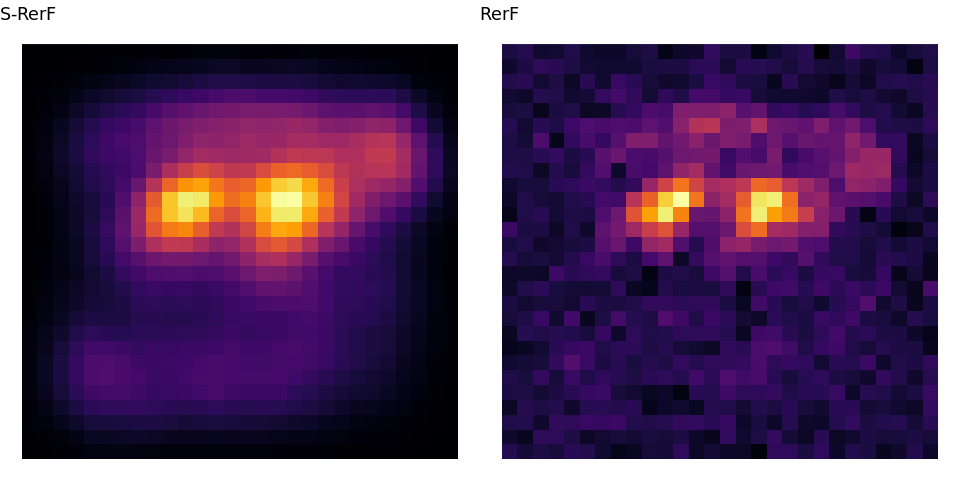
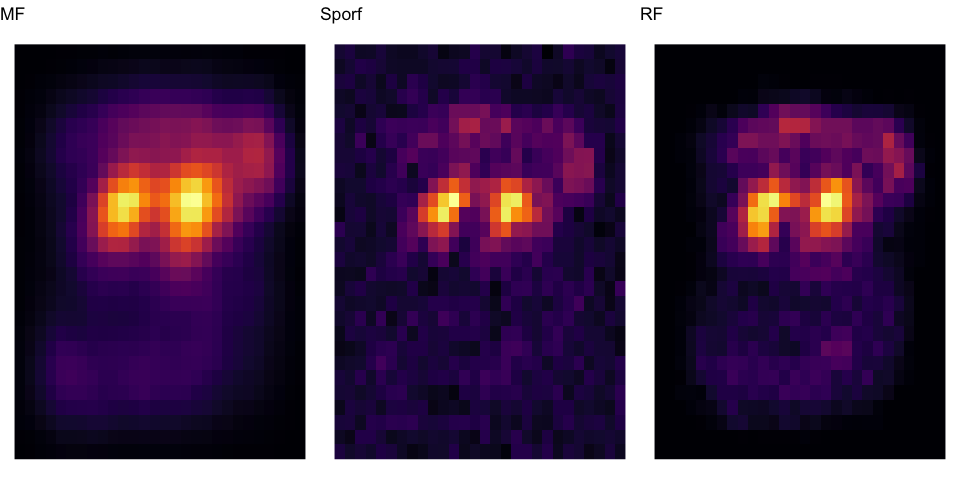
Add RF

diff --git a/docs/demos/S-RerF/ImportanceMap.rst b/docs/demos/S-RerF/ImportanceMap.rst
@@ -21,7 +21,7 @@
 Feature Importance on MNIST with feature counts
 ===============================================
 
-Select a subset of 3's and 5's from MNIST
+Select a subset of 3’s and 5’s from MNIST
 -----------------------------------------
 
 Here we train a forest using ``RerF`` with the ``RandMatImagePatch``
@@ -29,116 +29,163 @@ option with ``patch.min = 1`` and ``patch.max = 5``.
 
 .. code:: r
 
-    ## Get a random subsample, 100 each of 3's and 5's
-    threes <- which(mnist$Ytrain %in% 3)
-    fives  <- which(mnist$Ytrain %in% 5)
-    numsub <- c(threes, fives)
+   ## Get a random subsample, 100 each of 3's and 5's
+   threes <- which(mnist$Ytrain %in% 3)
+   fives  <- which(mnist$Ytrain %in% 5)
+   numsub <- c(threes, fives)
 
-    Ytrain <- mnist$Ytrain[numsub]
-    Xtrain <- mnist$Xtrain[numsub,]
-    Ytest <- mnist$Ytest[mnist$Ytest %in% c(3,5)]
-    Xtest <- mnist$Xtest[mnist$Ytest %in% c(3,5),]
+   Ytrain <- mnist$Ytrain[numsub]
+   Xtrain <- mnist$Xtrain[numsub,]
+   Ytest <- mnist$Ytest[mnist$Ytest %in% c(3,5)]
+   Xtest <- mnist$Xtest[mnist$Ytest %in% c(3,5),]
 
 .. code:: r
 
-    # p is number of dimensions, d is the number of random features to evaluate, iw is image width, ih is image height, patch.min is min width of square patch to sample pixels from, and patch.max is the max width of square patch
-    p <- ncol(Xtrain)
-    d <- ceiling(sqrt(p))
-    iw <- sqrt(p)
-    ih <- iw
-    patch.min <- 1L
-    patch.max <- 5L
+   # p is number of dimensions, d is the number of random features to evaluate, iw is image width, ih is image height, patch.min is min width of square patch to sample pixels from, and patch.max is the max width of square patch
+   p <- ncol(Xtrain)
+   d <- ceiling(sqrt(p))
+   iw <- sqrt(p)
+   ih <- iw
+   patch.min <- 1L
+   patch.max <- 5L
 
-    forestS <- RerF(Xtrain, Ytrain, num.cores = numCores, FUN = RandMatImagePatch,
-                   paramList = list(p = p, d = d, iw = iw, ih = ih,
-                                    pwMin = patch.min, pwMax = patch.max), max.depth = 8)
+   forestS <- RerF(Xtrain, Ytrain, num.cores = numCores, FUN = RandMatImagePatch,
+                  paramList = list(p = p, d = d, iw = iw, ih = ih,
+                                   pwMin = patch.min, pwMax = patch.max), max.depth = 8)
 
-    predS <- Predict(Xtest, forestS, num.cores = numCores)
-    (mnist.error.rate <- mean(predS != Ytest))
+   predS <- Predict(Xtest, forestS, num.cores = numCores)
+   (mnist.error.rate <- mean(predS != Ytest))
 
 ::
 
-    ## [1] 0.01892744
+   ## [1] 0.01892744
 
 .. code:: r
 
-    forestRerF <- RerF(Xtrain, Ytrain, num.cores = numCores, FUN = RandMatBinary,
-                   paramList = list(p = p, d = d), max.depth = 8)
+   forestRerF <- RerF(Xtrain, Ytrain, num.cores = numCores, FUN = RandMatBinary,
+                  paramList = list(p = p, d = d), max.depth = 8)
 
 
-    predRerF <- Predict(Xtest, forestRerF, num.cores = numCores)
-    (mnist.error.rate <- mean(predRerF != Ytest))
+   predRerF <- Predict(Xtest, forestRerF, num.cores = numCores)
+   (mnist.error.rate <- mean(predRerF != Ytest))
 
 ::
 
-    ## [1] 0.02208202
+   ## [1] 0.02208202
 
 .. code:: r
 
-    system.time({
-    FeatImpS <- FeatureImportance(forestS, num.cores = numCores, type = "C")
-    })
+   forestRF <- RerF(Xtrain, Ytrain, num.cores = numCores, FUN = RandMatRF,
+                  paramList = list(p = p, d = d), max.depth = 8)
+
+
+   predRF <- Predict(Xtest, forestRF, num.cores = numCores)
+   (mnist.error.rate <- mean(predRF != Ytest))
 
 ::
 
-    ## Message: Computing feature importance as counts of unique feature combinations.
-
-    ##    user  system elapsed 
-    ## 888.566   4.288 132.800
+   ## [1] 0.02050473
 
 .. code:: r
 
-    ni <- matrix(0, length(FeatImpS$features), ncol(Xtrain))
-
-    for(i in 1:length(FeatImpS$features)){
-      ni[i, FeatImpS$features[[i]]] <- FeatImpS$imp[i]
-    }
-
-    NN <- matrix(apply(ni, 2, sum) / nrow(ni), 28, 28, byrow = FALSE)
-    saveRDS(NN, file = "NNsrerf.rds")
-
-    system.time({
-    FeatImpRerF <- FeatureImportance(forestRerF, num.cores = numCores, type = "C")
-    })
+   system.time({
+   FeatImpS <- FeatureImportance(forestS, num.cores = numCores, type = "C")
+   })
 
 ::
 
-    ## Message: Computing feature importance as counts of unique feature combinations.
+   ## Message: Computing feature importance as counts of unique feature combinations.
 
-    ##    user  system elapsed 
-    ## 1287.25    4.28  166.17
+   ##     user   system  elapsed 
+   ## 1229.062    6.560  314.241
 
 .. code:: r
 
-    nir <- matrix(0, length(FeatImpRerF$features), ncol(Xtrain))
+   ni <- matrix(0, length(FeatImpS$features), ncol(Xtrain))
 
-    for(i in 1:length(FeatImpRerF$features)){
-      nir[i, FeatImpRerF$features[[i]]] <- FeatImpRerF$imp[i]
-    }
+   for(i in 1:length(FeatImpS$features)){
+     ni[i, FeatImpS$features[[i]]] <- FeatImpS$imp[i]
+   }
 
-    NNr <- matrix(apply(nir, 2, sum) / nrow(nir), 28, 28, byrow = FALSE)
-    saveRDS(NNr, file = "NNrerf.rds")
+   NN <- matrix(apply(ni, 2, sum) / nrow(ni), 28, 28, byrow = FALSE)
+   saveRDS(NN, file = "NNsrerf.rds")
+
+   system.time({
+   FeatImpRerF <- FeatureImportance(forestRerF, num.cores = numCores, type = "C")
+   })
+
+::
+
+   ## Message: Computing feature importance as counts of unique feature combinations.
+
+   ##     user   system  elapsed 
+   ## 1750.585   11.082  444.860
+
+.. code:: r
+
+   nir <- matrix(0, length(FeatImpRerF$features), ncol(Xtrain))
+
+   for(i in 1:length(FeatImpRerF$features)){
+     nir[i, FeatImpRerF$features[[i]]] <- FeatImpRerF$imp[i]
+   }
+
+   NNr <- matrix(apply(nir, 2, sum) / nrow(nir), 28, 28, byrow = FALSE)
+   saveRDS(NNr, file = "NNrerf.rds")
+
+   system.time({
+   FeatImpRF <- FeatureImportance(forestRF, num.cores = numCores, type = "C")
+   })
+
+::
+
+   ## Message: Computing feature importance as counts of unique feature combinations.
+
+   ##    user  system elapsed 
+   ##  14.579   0.323   5.549
+
+.. code:: r
+
+   nirf <- matrix(0, length(FeatImpRF$features), ncol(Xtrain))
+
+   for(i in 1:length(FeatImpRF$features)){
+     nirf[i, FeatImpRF$features[[i]]] <- FeatImpRF$imp[i]
+   }
+
+   NNrf <- matrix(apply(nirf, 2, sum) / nrow(nirf), 28, 28, byrow = FALSE)
+   saveRDS(NNrf, file = "NNrf.rds")
 
 plot the average 3 and 5 from the training set
 ----------------------------------------------
 
 .. code:: r
 
-    the3s <- Xtrain[Ytrain == 3, ]
-    the5s <- Xtrain[Ytrain == 5, ]
+   the3s <- Xtrain[Ytrain == 3, ]
+   the5s <- Xtrain[Ytrain == 5, ]
 
-    sum3 <- matrix(apply(the3s, 2, sum) / sum(Ytrain == 3), 28, 28, byrow = FALSE)
-    sum5 <- matrix(apply(the5s, 2, sum) / sum(Ytrain == 5), 28, 28, byrow = FALSE)
+   sum3 <- matrix(apply(the3s, 2, sum) / sum(Ytrain == 3), 28, 28, byrow = FALSE)
+   sum5 <- matrix(apply(the5s, 2, sum) / sum(Ytrain == 5), 28, 28, byrow = FALSE)
 
-    par(mfrow = c(1, 2))
-    plot(raster(sum3), col = viridis(255), main = "avg 3", axes = FALSE, legend = FALSE)
-    plot(raster(sum5), col = viridis(255), main = "avg 5", axes = FALSE, legend = FALSE)
+   g <- expand.grid(x = 1:28, y = 1:28)
+   gg <- rbind(g, g)
+
+   nn <- as.vector(t(NN[28:1, ]))
+   nnrerf <- as.vector(t(NNr[28:1, ]))
+   nnrf <- as.vector(t(NNrf[28:1, ]))
+
+   s3 <- as.vector(t(sum3[28:1,]))
+   s5 <- as.vector(t(sum5[28:1,]))
+
+   Z <- data.frame(g, z = c(nn, nnrerf, nnrf, s3, s5), Alg =  rep(c("MF", "Sporf", "RF", "Average 3", "Average 5"), each = length(nn)))
+
+   sc0 <- scale_fill_gradientn(colours = viridis(255))
+   sc1 <- scale_fill_gradientn(colours = inferno(255))
+
+   a1 <- ggplot(data = Z[ Z$Alg == "Average 3",    ], aes(x = x, y = y, fill = z)) + geom_raster() + theme_void() + guides(fill = FALSE) + sc1 + ggtitle("Average 3")
+   a2 <- ggplot(data = Z[ Z$Alg == "Average 5", ], aes(x = x, y = y, fill = z)) + geom_raster() + theme_void() + guides(fill = FALSE) + sc1 + ggtitle("Average 5")
+
+   grid.arrange(a1, a2, ncol=2)
 
 |image0|\ 
-
-.. code:: r
-
-    par(mfrow = c(1, 1))
 
 Feature heatmap
 ---------------
@@ -148,21 +195,11 @@ heatmaps.
 
 .. code:: r
 
-    g <- expand.grid(x = 1:28, y = 1:28)
-    gg <- rbind(g, g)
+   p1 <- ggplot(data = Z[ Z$Alg == "MF",    ], aes(x = x, y = y, fill = z)) + geom_raster() + theme_void() + guides(fill = FALSE) + sc1+ ggtitle("MF")
+   p2 <- ggplot(data = Z[ Z$Alg == "Sporf", ], aes(x = x, y = y, fill = z)) + geom_raster() + theme_void() + guides(fill = FALSE) + sc1+ ggtitle("Sporf")
+   p3 <- ggplot(data = Z[ Z$Alg == "RF",    ], aes(x = x, y = y, fill = z)) + geom_raster() + theme_void() + guides(fill = FALSE) + sc1+ ggtitle("RF")
 
-    nn <- as.vector(t(NN[28:1, ]))
-    nnrerf <- as.vector(t(NNr[28:1, ]))
-
-    Z <- data.frame(g, z = c(nn, nnrerf * 5), Alg =  rep(c("S-RerF", "RerF"), each = length(nn)))
-
-    sc <- scale_fill_gradientn(colours = inferno(255))
-
-    p1 <- ggplot(data = Z[ Z$Alg == "S-RerF", ], aes(x = x, y = y, fill = z)) + geom_raster() + theme_void() + guides(fill = FALSE) + sc + ggtitle("S-RerF")
-
-    p2 <- ggplot(data = Z[ Z$Alg == "RerF", ], aes(x = x, y = y, fill = z)) + geom_raster() + theme_void() + guides(fill = FALSE) + sc + ggtitle("RerF")
-
-    grid.arrange(p1, p2, ncol=2)
+   grid.arrange(p1, p2, p3, ncol=3)
 
 |image1|\ 
 
